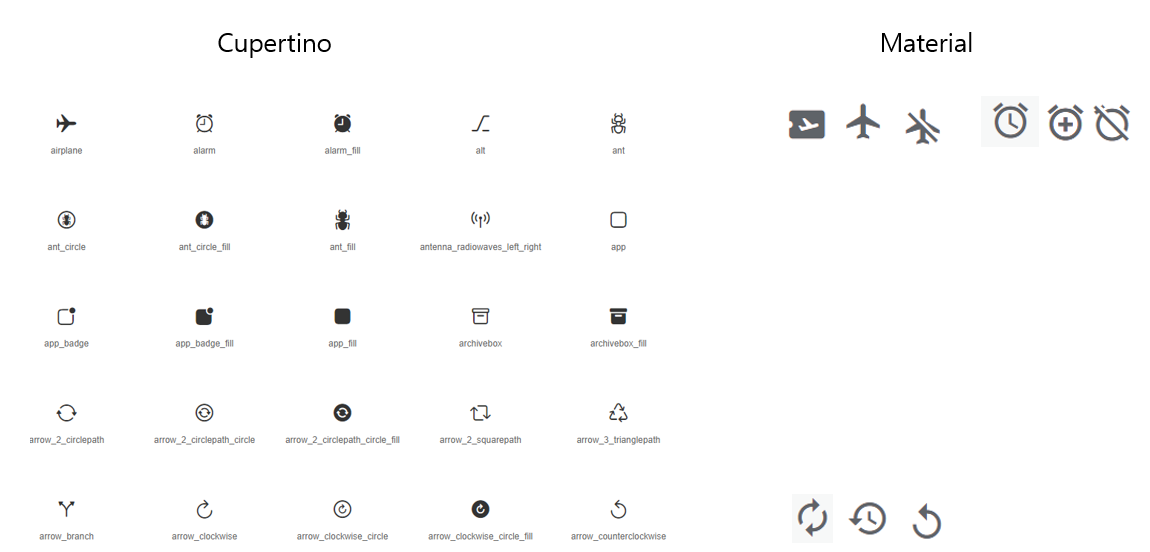
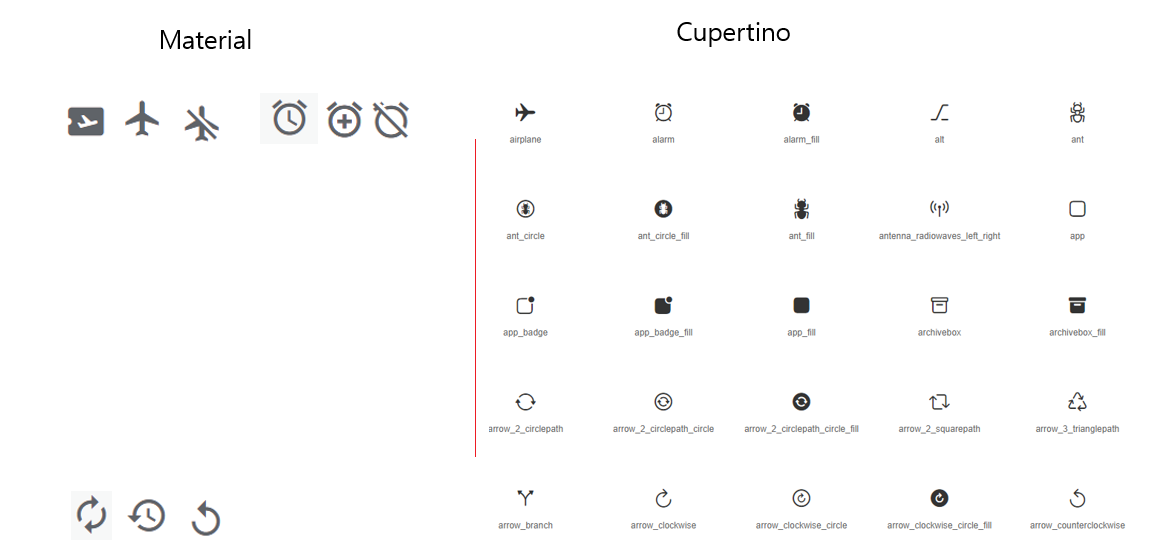
.

diff --git a/doIt2/chapter6/listview_example/lib/main.dart b/doIt2/chapter6/listview_example/lib/main.dart
@@ -1,5 +1,4 @@
 import 'package:flutter/material.dart';
-//import 'dart:ffi' as ffi;
 import 'package:flutter/foundation.dart';
 
 import 'animalItem.dart';
@@ -39,8 +38,7 @@ class MyHomePage extends StatefulWidget {
   _MyHomePageState createState() => _MyHomePageState();
 }
 
-class _MyHomePageState extends State<MyHomePage>
-    with SingleTickerProviderStateMixin {
+class _MyHomePageState extends State<MyHomePage> with SingleTickerProviderStateMixin {
   TabController? controller;
   List<Animal> animalList = List.empty(growable: true);
 
@@ -57,22 +55,14 @@ class _MyHomePageState extends State<MyHomePage>
     // }
 
     controller = TabController(length: 2, vsync: this);
-    animalList.add(
-        Animal(animalName: "벌", kind: "곤충", imagePath: "repo/images/bee.png"));
-    animalList.add(Animal(
-        animalName: "고양이", kind: "포유류", imagePath: "repo/images/cat.png"));
-    animalList.add(Animal(
-        animalName: "젖소", kind: "포유류", imagePath: "repo/images/cow.png"));
-    animalList.add(Animal(
-        animalName: "강아지", kind: "포유류", imagePath: "repo/images/dog.png"));
-    animalList.add(Animal(
-        animalName: "여우", kind: "포유류", imagePath: "repo/images/fox.png"));
-    animalList.add(Animal(
-        animalName: "원숭이", kind: "영장류", imagePath: "repo/images/monkey.png"));
-    animalList.add(Animal(
-        animalName: "돼지", kind: "포유류", imagePath: "repo/images/pig.png"));
-    animalList.add(Animal(
-        animalName: "늑대", kind: "포유류", imagePath: "repo/images/wolf.png"));
+    animalList.add(Animal(animalName: "벌", kind: "곤충", imagePath: "repo/images/bee.png"));
+    animalList.add(Animal(animalName: "고양이", kind: "포유류", imagePath: "repo/images/cat.png"));
+    animalList.add(Animal(animalName: "젖소", kind: "포유류", imagePath: "repo/images/cow.png"));
+    animalList.add(Animal(animalName: "강아지", kind: "포유류", imagePath: "repo/images/dog.png"));
+    animalList.add(Animal(animalName: "여우", kind: "포유류", imagePath: "repo/images/fox.png"));
+    animalList.add(Animal(animalName: "원숭이", kind: "영장류", imagePath: "repo/images/monkey.png"));
+    animalList.add(Animal(animalName: "돼지", kind: "포유류", imagePath: "repo/images/pig.png"));
+    animalList.add(Animal(animalName: "늑대", kind: "포유류", imagePath: "repo/images/wolf.png"));
   }
 
   @override
@@ -83,10 +73,7 @@ class _MyHomePageState extends State<MyHomePage>
         ),
         body: TabBarView(
           controller: controller,
-          children: <Widget>[
-            FirstApp(list: animalList),
-            SecondApp(list: animalList)
-          ],
+          children: <Widget>[FirstApp(list: animalList), SecondApp(list: animalList)],
         ),
         bottomNavigationBar: TabBar(
           tabs: const <Tab>[

diff --git a/doIt2/chapter6/listview_example/README.md b/doIt2/chapter6/listview_example/README.md
@@ -33,8 +33,8 @@
 
 ## 4. Cupertino icon
 #### 1. Material icons
-```dart
  - https://fonts.google.com/icons?selected=Material+Icons
+```dart
    . style적용 후
    . download 2가지 (svg, png) type 으로 download가능
    . svg : SVG는 Scalable Vector Graphics라는 뜻인데, 번역하자면 확장가능한 벡터 그래픽이다. 
@@ -61,7 +61,7 @@
    cupertino_icons: ^1.0.2   : default로 추가되어져 있음 
 ```
 
-#### 4. Cupertino/Material icons 비교
+#### 4. Material/Cupertino icons 비교
 <img src="./README_images/cupertino_110.png">
 
 ## 5. Cupertino Widget
@@ -84,6 +84,7 @@
  > https://docs.flutter.dev/development/ui/widgets/cupertino
 
 ## 6. 동물리스트 화면 비교해 보기
+ - Android style                     iOS Style
 <img src="./README_images/cupertino_200.png" height="1000">
 
 ## 7. OS 구분 방법
@@ -310,6 +311,3 @@
       cupertino: (_, __) => CupertinoIconButtonData(),
   )
 ```
-
-
- - skia 엔진?????
